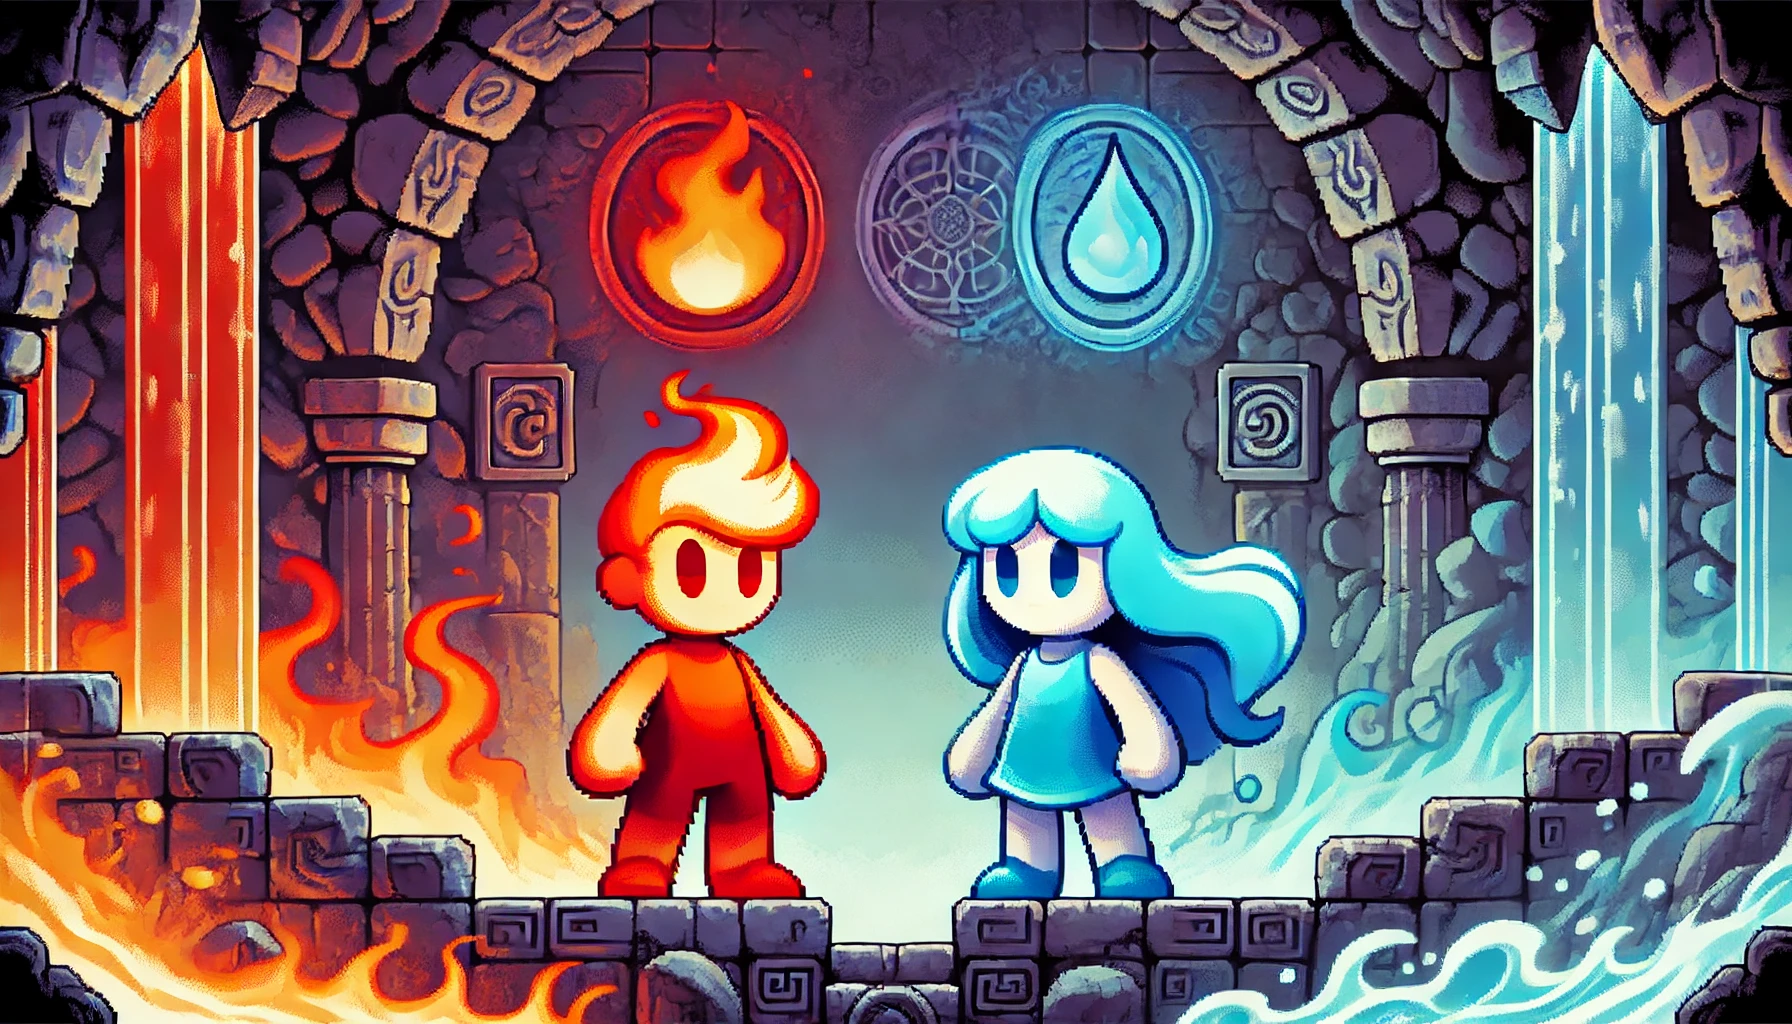
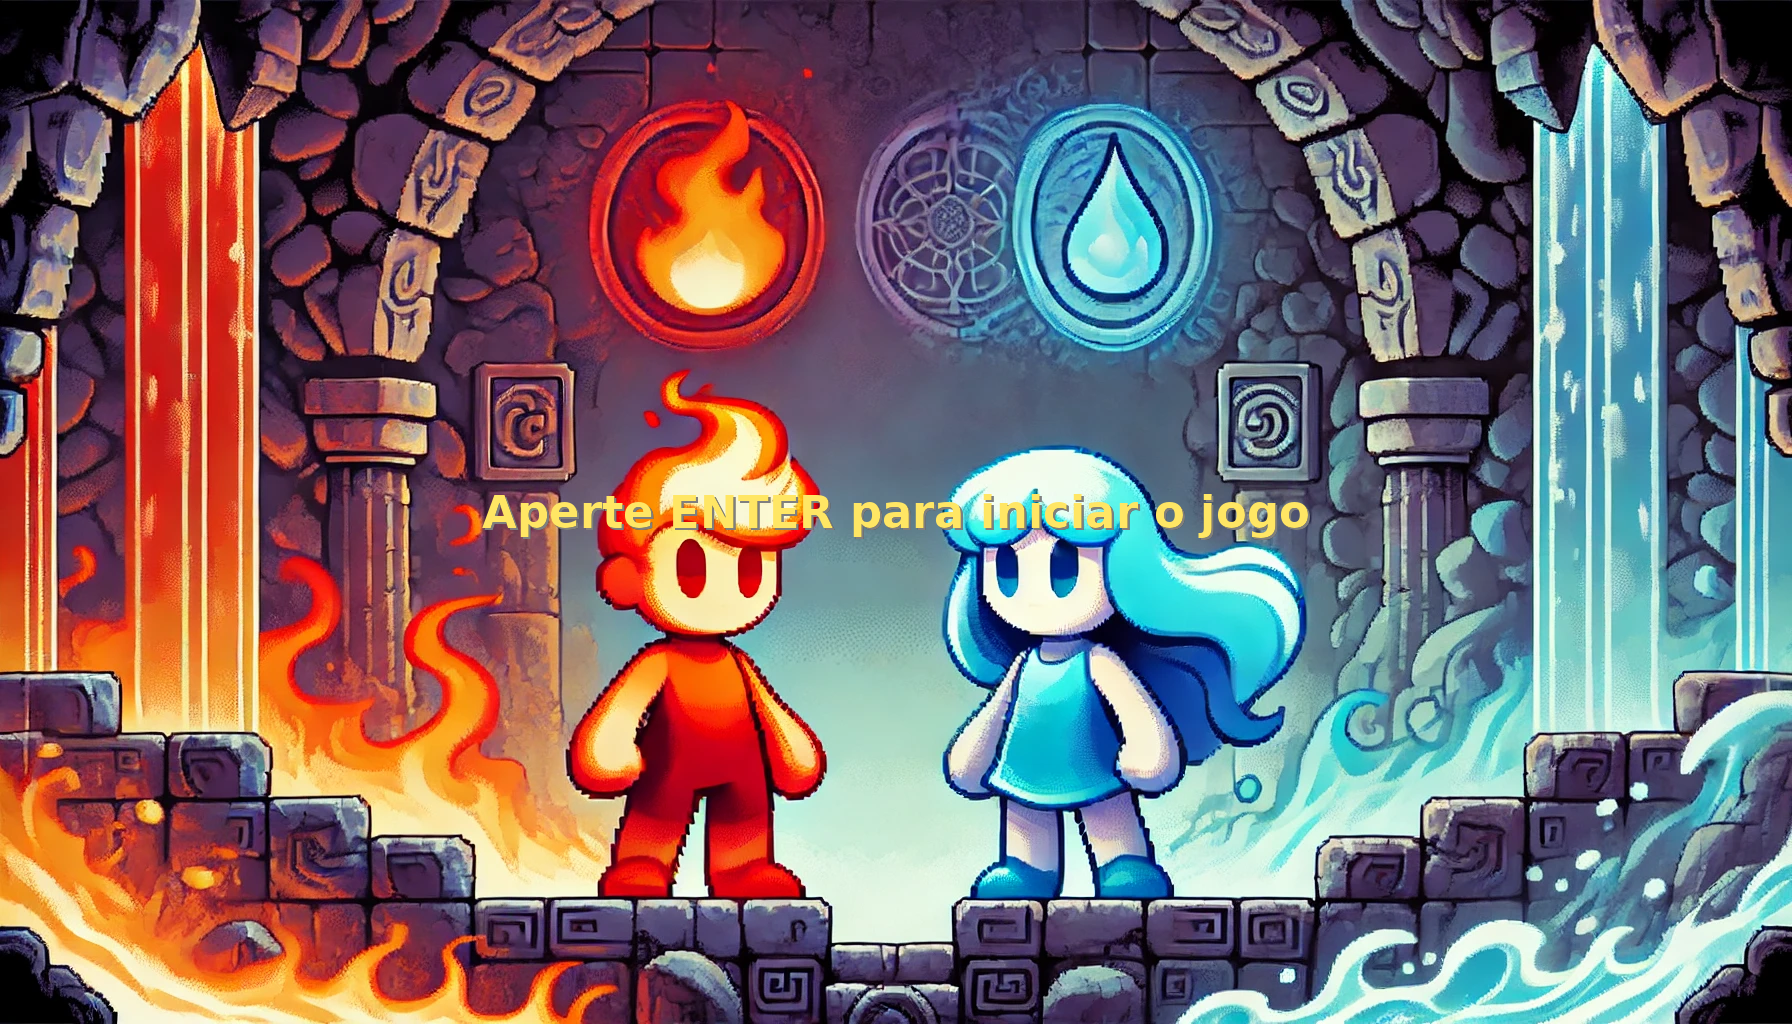
Fundos de Telas, e começa o jogo clicando ENTER

Changed region(s): [[0.25, 0.4688, 0.75, 0.5312]]

diff --git a/Base_game.py b/Base_game.py
@@ -10,28 +10,36 @@ window = pygame.display.set_mode((WIDTH, HEIGHT))
 pygame.display.set_caption('Jogo do Pedro')
 
 # ----- Inicia estruturas de dados
+Inicio = 0
+Jogando_nivel_1 = 1
+state = Inicio
 game = True
 background_inicial = pygame.image.load("assets/img/tela_fundo_inicial.png").convert()
 background_inicial = pygame.transform.scale(background_inicial,(WIDTH,HEIGHT))
+background_jogando_1 = pygame.image.load("assets/img/fundo_mapa_nivel_1.png").convert()
+background_jogando_1 = pygame.transform.scale(background_jogando_1,(WIDTH,HEIGHT))
 
-#Verifica se o jogo vai iniciar:
-for event in pygame.event.get():
-        # ----- Verifica consequências
-        if event.type == pygame.K_RETURN:
-            game = True
+
 # ===== Loop principal =====
 while game:
     # ----- Trata eventos
     for event in pygame.event.get():
         # ----- Verifica consequências
-        if event.type == pygame.KEYUP:
+        if event.type == pygame.K_ESCAPE:
             game = False
         if event.type == pygame.QUIT:
-            game = False
-
-    # ----- Gera saídas
-    window.fill((0, 0, 0))  # Preenche com a cor branca
-    window.blit(background_inicial,(0,0))
+            game = False     
+#Verifica se o jogo vai iniciar:
+        if event.type == pygame.KEYDOWN:
+            if event.key == pygame.K_RETURN:
+                state = Jogando_nivel_1
+    if state == Inicio:
+        # ----- Gera saídas
+        window.fill((0, 0, 0))  # Preenche com a cor branca
+        window.blit(background_inicial,(0,0))
+    if state == Jogando_nivel_1:
+        window.fill((0, 0, 0))  # Preenche com a cor branca
+        window.blit(background_jogando_1,(0,0))
 
     # ----- Atualiza estado do jogo
     pygame.display.update()  # Mostra o novo frame para o jogador
